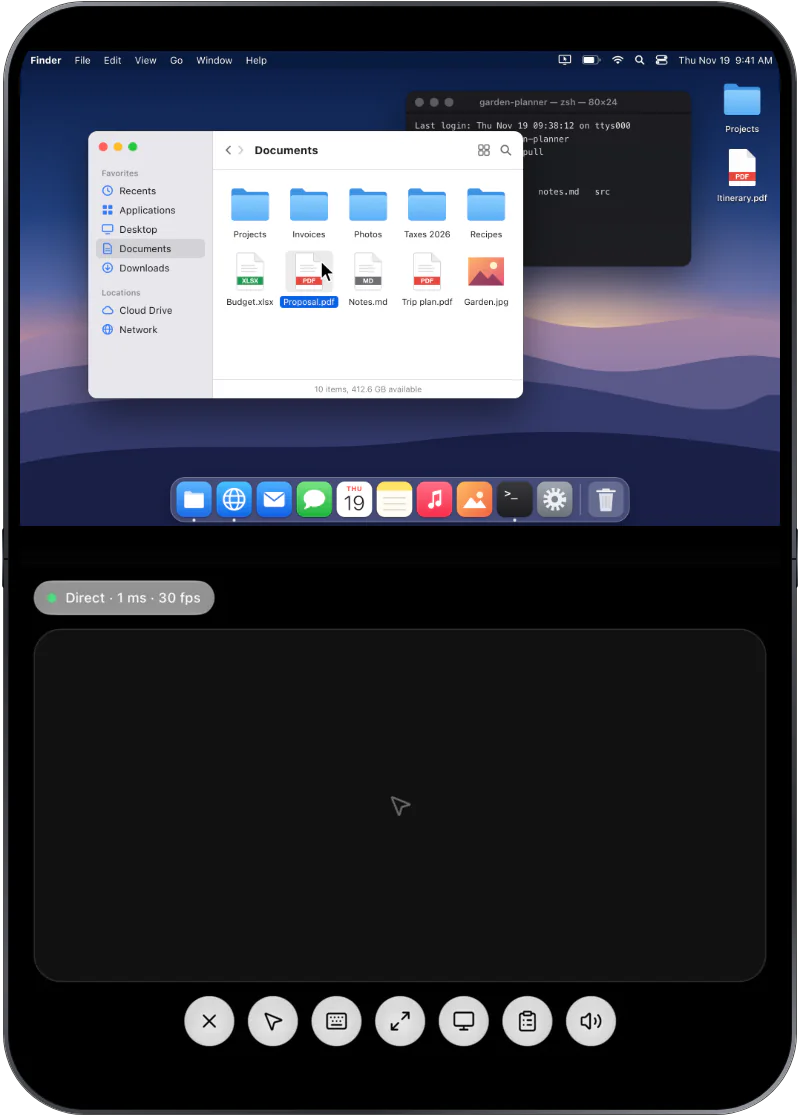
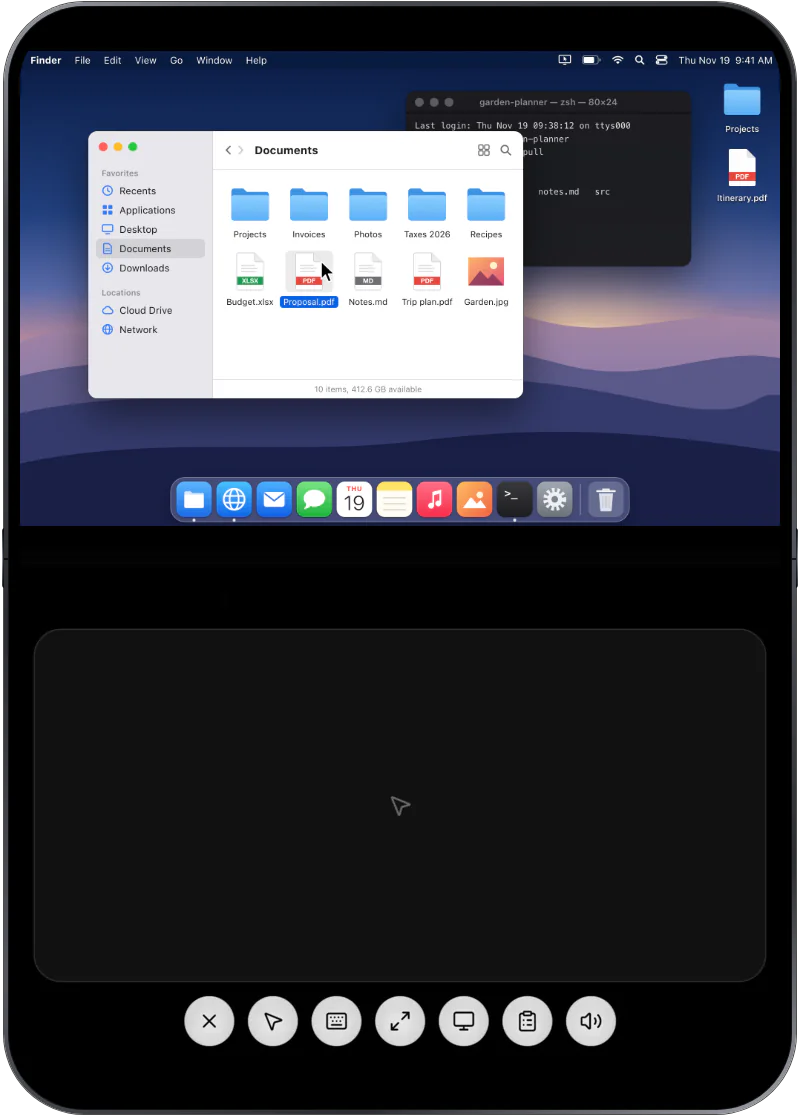
Leave the status pill out of the homepage screenshots

Changed region(s): [[0.0312, 0.5179, 0.2812, 0.5484]]

diff --git a/site/scripts/screenshots/folded.html b/site/scripts/screenshots/folded.html
@@ -16,6 +16,7 @@
   .glass { width: 100%; height: 100%; padding: 10px; border-radius: 18px 84px 84px 18px; background: #000; box-shadow: inset 0 0 0 1px rgba(255, 255, 255, 0.07); }
   .screen { position: relative; width: 560px; height: 815px; border-radius: 10px 71px 71px 10px; overflow: hidden; background: #000 url(folded-app.webp) 0 0 / 560px 815px no-repeat; }
   .desktop { position: absolute; left: 0; top: 0; width: 459px; height: 287px; box-shadow: 1px 1px 0 #000; }
+  .pill { position: absolute; left: 9px; top: 296px; width: 203px; height: 47px; background: #000; }
   .camera { position: absolute; left: 489px; top: 140px; width: 26px; height: 26px; border-radius: 50%; background: radial-gradient(circle at 38% 36%, #2b3550 0 12%, #0b0d14 32%, #020203 70%); box-shadow: 0 0 0 1.5px #0c0c0f; }
 </style>
 </head>
@@ -25,7 +26,7 @@
   <div class="button power"></div>
   <div class="body">
     <div class="glass">
-      <div class="screen"><img class="desktop" src="desktop.png" alt=""><div class="camera"></div></div>
+      <div class="screen"><img class="desktop" src="desktop.png" alt=""><div class="pill"></div><div class="camera"></div></div>
     </div>
   </div>
 </body>

diff --git a/site/scripts/screenshots/laptop.html b/site/scripts/screenshots/laptop.html
@@ -14,6 +14,7 @@
   .screen { position: relative; width: 760px; height: 1080px; border-radius: 63px; overflow: hidden; background: #000; }
   .desktop { position: absolute; left: 0; top: 33px; width: 760px; height: 475px; }
   .panel { position: absolute; left: 0; top: 540px; width: 760px; height: 540px; background: url(laptop-app.webp) 0 -465px / 760px 1005px no-repeat; }
+  .pill { position: absolute; left: 9px; top: 556px; width: 191px; height: 47px; background: #000; }
   .crease { position: absolute; left: 0; right: 0; top: 529px; height: 22px; background: linear-gradient(180deg, transparent, rgba(255, 255, 255, 0.022) 35%, rgba(0, 0, 0, 0.4) 50%, rgba(255, 255, 255, 0.022) 65%, transparent); }
 </style>
 </head>
@@ -23,7 +24,7 @@
   <div class="body">
     <div class="seam"></div>
     <div class="glass">
-      <div class="screen"><img class="desktop" src="desktop.png" alt=""><div class="panel"></div><div class="crease"></div></div>
+      <div class="screen"><img class="desktop" src="desktop.png" alt=""><div class="panel"></div><div class="pill"></div><div class="crease"></div></div>
     </div>
   </div>
 </body>
